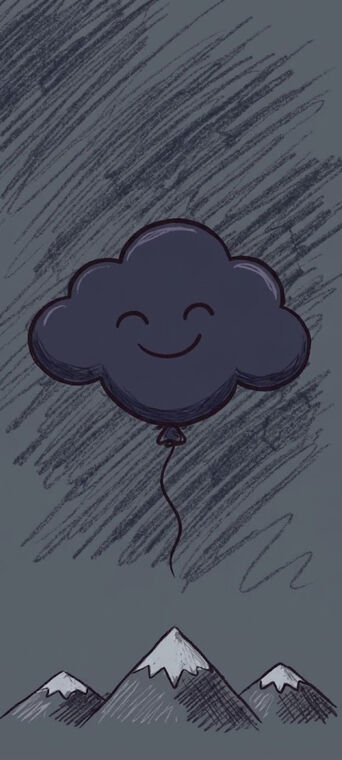
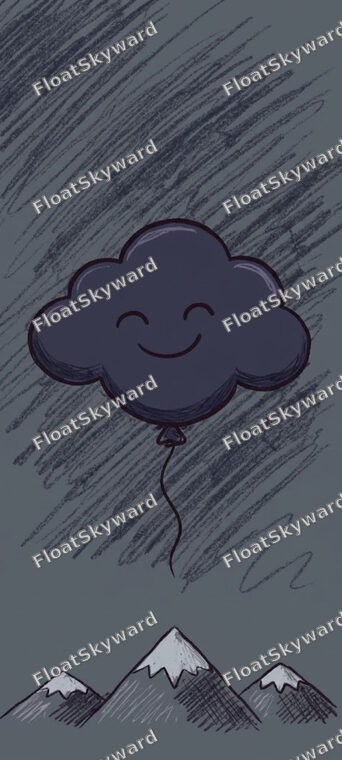
Watermark wallpaper previews + wire PayPal checkout for the pack
- Stamp all 11 Cloud Friends previews with a repeated, diagonal,
  dual-tone "FloatSkyward" watermark (white fill + dark outline) so
  they read clearly on both light skies and dark night art and can't
  be cropped out for free use.
- Point the Cloud Friends Wallpaper Pack Buy button at the PayPal
  payment link; button now renders "Buy Now".

Claude-Session: https://claude.ai/code/session_01MLV7DBU85orqRWMW5omDLA

diff --git a/index.html b/index.html
@@ -513,7 +513,7 @@
       desc: "11 hand-drawn phone wallpapers in the FloatSkyward style — happy skies, sleepy moons, moody storms, and one little cloud floating up on a red balloon. Light and dark versions included.",
       price: "$2.99",
       badge: "New",
-      buyUrl: "",
+      buyUrl: "https://www.paypal.com/ncp/payment/XXLRYJ7ZBLMW8",
       images: [
         { src: "wallpapers/float-up.jpg",        label: "Float Up" },
         { src: "wallpapers/happy-cloud.jpg",     label: "Happy Little Cloud" },
